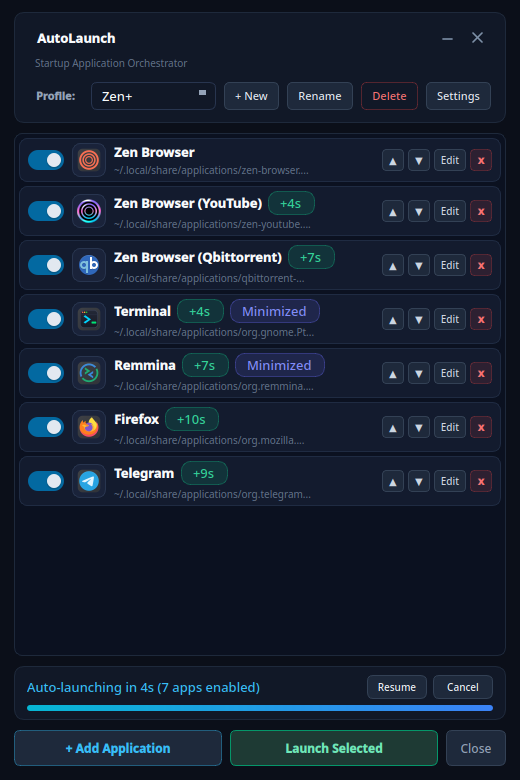
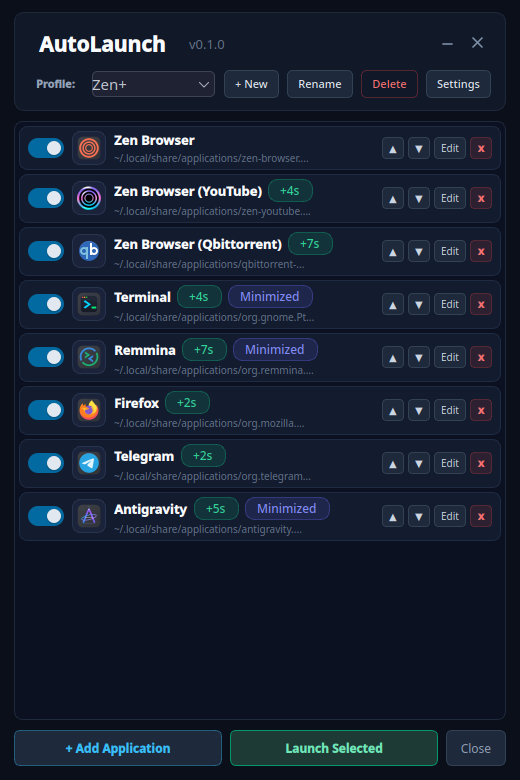
Update header: enlarge title, add v0.1.0 version tag, and remove subtitle

diff --git a/ui/main_window.py b/ui/main_window.py
@@ -275,26 +275,30 @@ class MainWindow(QMainWindow):
         # Row 1: Brand & Window Controls
         row1 = QHBoxLayout()
         row1.setSpacing(6)
+        row1.setAlignment(Qt.AlignmentFlag.AlignVCenter)
 
-        title_box = QVBoxLayout()
-        title_box.setSpacing(1)
+        title_box = QHBoxLayout()
+        title_box.setSpacing(6)
+        title_box.setAlignment(Qt.AlignmentFlag.AlignVCenter)
 
         title_lbl = QLabel("AutoLaunch")
-        title_font = QFont("Inter, Segoe UI, sans-serif", 13, QFont.Weight.Bold)
+        title_font = QFont("Inter, Segoe UI, sans-serif", 16, QFont.Weight.Bold)
         title_lbl.setFont(title_font)
         title_lbl.setStyleSheet("color: #f8fafc; border: none; background: transparent;")
 
-        sub_lbl = QLabel("Startup Application Orchestrator")
-        sub_lbl.setStyleSheet("color: #64748b; font-size: 10px; border: none; background: transparent;")
+        version_lbl = QLabel("v0.1.0")
+        version_font = QFont("Inter, Segoe UI, sans-serif", 10, QFont.Weight.Normal)
+        version_lbl.setFont(version_font)
+        version_lbl.setStyleSheet("color: #64748b; border: none; background: transparent; padding-top: 4px;")
 
         title_box.addWidget(title_lbl)
-        title_box.addWidget(sub_lbl)
+        title_box.addWidget(version_lbl)
         row1.addLayout(title_box)
 
         row1.addStretch()
 
         self.window_controls = WindowControls(self, show_minimize=True)
-        row1.addWidget(self.window_controls, alignment=Qt.AlignmentFlag.AlignTop | Qt.AlignmentFlag.AlignRight)
+        row1.addWidget(self.window_controls, alignment=Qt.AlignmentFlag.AlignVCenter | Qt.AlignmentFlag.AlignRight)
         header_layout.addLayout(row1)
 
         # Row 2: Profile Selector & Quick Actions
